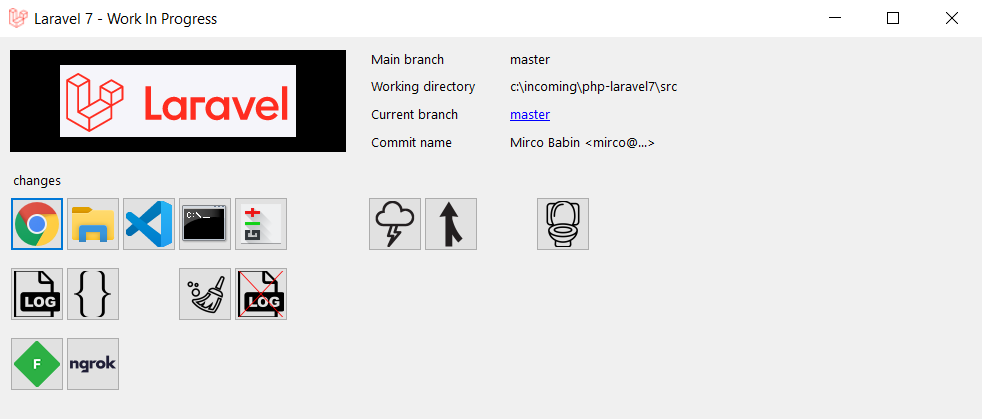
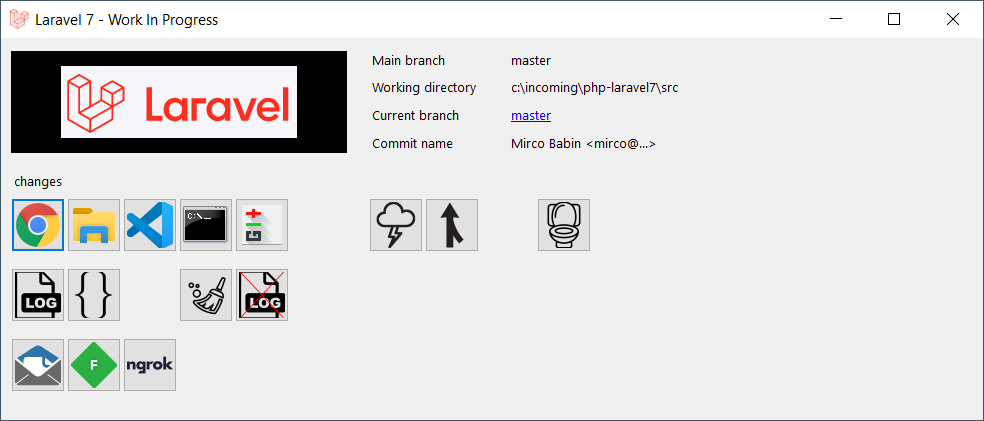
add: Smtp Server

diff --git a/src/GitNoob.Config/Loader/IniFileLoader.cs b/src/GitNoob.Config/Loader/IniFileLoader.cs
@@ -19,10 +19,12 @@ namespace GitNoob.Config.Loader
         private string _globalPhpName;
         private string _globalApacheName;
         private string _globalNgrokName;
+        private string _globalSmtpServerName;
         private Dictionary<string, WorkingGit> _globalGits;
         private Dictionary<string, Apache> _globalApaches;
         private Dictionary<string, Php> _globalPhps;
         private Dictionary<string, Ngrok> _globalNgroks;
+        private Dictionary<string, SmtpServer> _globalSmtpServers;
         private Dictionary<string, Webpage> _globalWebpages;
 
         private Dictionary<string, Project> _projects;
@@ -45,10 +47,12 @@ namespace GitNoob.Config.Loader
             _globalPhpName = String.Empty;
             _globalApacheName = String.Empty;
             _globalNgrokName = String.Empty;
+            _globalSmtpServerName = String.Empty;
             _globalGits = new Dictionary<string, WorkingGit>();
             _globalApaches = new Dictionary<string, Apache>();
             _globalPhps = new Dictionary<string, Php>();
             _globalNgroks = new Dictionary<string, Ngrok>();
+            _globalSmtpServers = new Dictionary<string, SmtpServer>();
             _globalWebpages = new Dictionary<string, Webpage>();
 
             _projects = new Dictionary<string, Project>();
@@ -128,6 +132,14 @@ namespace GitNoob.Config.Loader
                         _globalNgroks.Add(name, LoadNgrok(ini, sectionname, String.Empty));
                     }
                 },
+                {  "smtpserver-", (ini, sectionname, name) =>
+                    {
+                        if (_globalSmtpServers.ContainsKey(name))
+                            _globalSmtpServers.Remove(name);
+
+                        _globalSmtpServers.Add(name, LoadSmtpServer(ini, sectionname, String.Empty));
+                    }
+                },
             };
 
             {
@@ -166,6 +178,7 @@ namespace GitNoob.Config.Loader
                 _globalApacheName = ReadValue(ini, "gitnoob", "apache");
                 _globalPhpName = ReadValue(ini, "gitnoob", "php");
                 _globalNgrokName = ReadValue(ini, "gitnoob", "ngrok");
+                _globalSmtpServerName = ReadValue(ini, "gitnoob", "smtpserver");
 
                 foreach (string sectionname in ini.GetSectionNames())
                 {
@@ -323,6 +336,27 @@ namespace GitNoob.Config.Loader
             return ngrok;
         }
 
+        private SmtpServer LoadSmtpServer(IniFile ini, string Section, string smtpServerName)
+        {
+            SmtpServer smtpserver = new SmtpServer();
+            string value;
+
+            value = ReadValue(ini, Section, "smtpserver");
+            if (!String.IsNullOrWhiteSpace(value)) smtpServerName = value;
+            if (!String.IsNullOrWhiteSpace(smtpServerName))
+            {
+                if (_globalSmtpServers.ContainsKey(smtpServerName))
+                {
+                    smtpserver.CopyFrom(_globalSmtpServers[smtpServerName]);
+                }
+            }
+
+            value = ReadPath(ini, Section, "smtpServerExecutable");
+            if (!String.IsNullOrWhiteSpace(value)) smtpserver.Executable = value;
+
+            return smtpserver;
+        }
+
         private Webpage LoadWebpage(IniFile ini, string Section, string webpageName)
         {
             Webpage webpage = new Webpage();
@@ -386,6 +420,14 @@ namespace GitNoob.Config.Loader
                 ngrokName = name;
             }
 
+            string smtpServerName;
+            {
+                string name = "gitnoob-project-" + inifilename;
+                _globalSmtpServers.Add(name, LoadSmtpServer(ini, "gitnoob", _globalSmtpServerName));
+
+                smtpServerName = name;
+            }
+
             string webpageName;
             {
                 string name = "gitnoob-project-" + inifilename;
@@ -406,7 +448,7 @@ namespace GitNoob.Config.Loader
                             project.WorkingDirectories.Remove(name);
 
                         project.WorkingDirectories.Add(name, LoadWorkingDirectory(project, ini, sectionname, 
-                            gitName, webpageName, apacheName, phpName, ngrokName));
+                            gitName, webpageName, apacheName, phpName, ngrokName, smtpServerName));
                     }
                     catch { }
                 }
@@ -416,7 +458,7 @@ namespace GitNoob.Config.Loader
         }
 
         private WorkingDirectory LoadWorkingDirectory(Project project, IniFile ini, string Section, 
-            string gitName, string webpageName, string apacheName, string phpName, string ngrokName)
+            string gitName, string webpageName, string apacheName, string phpName, string ngrokName, string smtpServerName)
         {
             WorkingDirectory WorkingDirectory = new WorkingDirectory();
             string value;
@@ -439,6 +481,8 @@ namespace GitNoob.Config.Loader
             WorkingDirectory.Php = LoadPhp(ini, Section, phpName);
 
             WorkingDirectory.Ngrok = LoadNgrok(ini, Section, ngrokName);
+
+            WorkingDirectory.SmtpServer = LoadSmtpServer(ini, Section, smtpServerName);
 
 
             value = ReadValue(ini, Section, "port");

diff --git a/src/GitNoob.Gui.Program/Action/StartSmtpServer.cs b/src/GitNoob.Gui.Program/Action/StartSmtpServer.cs
@@ -1,0 +1,42 @@
+using System.Drawing;
+using System.IO;
+
+namespace GitNoob.Gui.Program.Action
+{
+    public class StartSmtpServer : Action, IAction
+    {
+        public StartSmtpServer(StepsExecutor.StepConfig Config) : base(Config) { }
+
+        private string GetExecutable()
+        {
+            if (string.IsNullOrWhiteSpace(stepConfig.Config.ProjectWorkingDirectory.SmtpServer.Executable))
+            {
+                return null;
+            }
+
+            return Path.GetFullPath(stepConfig.Config.ProjectWorkingDirectory.SmtpServer.Executable);
+        }
+
+        public bool isStartable()
+        {
+            var smtpserver = GetExecutable();
+            if (smtpserver == null) return false;
+
+            if (!File.Exists(smtpserver)) return false;
+
+            return true;
+        }
+
+        public Icon icon()
+        {
+            return Utils.ImageUtils.LoadIconForFile(GetExecutable());
+        }
+
+        public void execute()
+        {
+            if (!isStartable()) return;
+
+            System.Diagnostics.Process.Start(GetExecutable());
+        }
+    }
+}

diff --git a/src/GitNoob.Gui.Forms/WorkingDirectoryForm.cs b/src/GitNoob.Gui.Forms/WorkingDirectoryForm.cs
@@ -382,6 +382,12 @@ namespace GitNoob.Gui.Forms
             location.X = lblStatusValue.Location.X;
             location.Y += 70;
 
+            var smtpserver = new Program.Action.StartSmtpServer(StepConfig);
+            if (smtpserver.isStartable())
+            {
+                this.panelStatus.Controls.Add(new ActionButton("Smtp Server", smtpserver, ref location));
+            }
+
             var fiddler = new Program.Action.StartFiddler();
             if (browser.isStartable() && fiddler.isStartable())
             {

diff --git a/src/GitNoob.Config/WorkingDirectory.cs b/src/GitNoob.Config/WorkingDirectory.cs
@@ -16,6 +16,7 @@
         public Php Php { get; set; }
         public Apache Apache { get; set; }
         public Ngrok Ngrok { get; set; }
+        public SmtpServer SmtpServer { get; set; }
         public Editor Editor { get; set; }
 
         public WorkingDirectory()
@@ -26,6 +27,7 @@
             Php = new Php();
             Apache = new Apache();
             Ngrok = new Ngrok();
+            SmtpServer = new SmtpServer();
             Editor = new Editor();
             Webpage = new Webpage();
         }

diff --git a/src/GitNoob.Config/SmtpServer.cs b/src/GitNoob.Config/SmtpServer.cs
@@ -1,0 +1,17 @@
+namespace GitNoob.Config
+{
+    public class SmtpServer
+    {
+        public string Executable { get; set; }
+
+        public SmtpServer()
+        {
+            Executable = string.Empty;
+        }
+
+        public void CopyFrom(SmtpServer other)
+        {
+            Executable = other.Executable;
+        }
+    }
+}

diff --git a/docs/ProjectConfigurationFile.md b/docs/ProjectConfigurationFile.md
@@ -23,6 +23,9 @@ In the project configuration the section GitNoob can contain the settings:
 | ngrokPath | Path | (Optional) Path to Ngrok binaries. %ngrokPath% should contain ngrok.exe. e.g. "%binPath%\\ngrok". |
 | ngrokPort | Integer | (Optional) Port on localhost where the Ngrok dashboard is running. e.g. the default port "4040" |
 | | | |
+| smtpserver | Value | (Optional) project smtpserver settings name. E.g. "papercut" then there should also be a section \[smtpserver-papercut\] in the [root configuration file - GitNoob.ini](RootConfigurationFile.md "Root Configuration File"). |
+| smtpServerExecutable | Path | (Optional) Smtp server executable. |
+| | | |
 | origin | Value | (Optional) project url to be used for "git clone". e.g. "https://github.com/MircoBabin/GitNoob.git". |
 | mainbranch | Value | (Optional) main branch name. e.g. "master". |
 | commitname | Value | (Optional) what value should the committer name have. E.g. "Mirco Babin". |
@@ -64,6 +67,9 @@ This section defines a working directory.
 | ngrok | Value | (Optional) project ngrok settings name. E.g. "global" then there should also be a section \[ngrok-global\] in the [root configuration file - GitNoob.ini](RootConfigurationFile.md "Root Configuration File"). |
 | ngrokPath | Path | (Optional) Path to Ngrok binaries. %ngrokPath% should contain ngrok.exe. e.g. "%binPath%\\ngrok". |
 | ngrokPort | Integer | (Optional) Port on localhost where the Ngrok dashboard is running. e.g. the default port "4040" |
+| | | |
+| smtpserver | Value | (Optional) project smtpserver settings name. E.g. "papercut" then there should also be a section \[smtpserver-papercut\] in the [root configuration file - GitNoob.ini](RootConfigurationFile.md "Root Configuration File"). |
+| smtpServerExecutable | Path | (Optional) Smtp server executable. |
 | | | |
 | origin | Value | (Optional) url to be used for "git clone". e.g. "https://github.com/MircoBabin/GitNoob.git". |
 | mainbranch | Value | (Optional) main branch name. e.g. "master". |

diff --git a/docs/RootConfigurationFile.md b/docs/RootConfigurationFile.md
@@ -35,6 +35,7 @@ In the root configuration the section GitNoob can contain the settings:
 | apache | Value | (Optional) global apache settings name. E.g. "global" then there should also be a section \[apache-global\]. |
 | php | Value | (Optional) global php settings name. E.g. "5.6.40" then there should also be a section \[php-5.6.40\]. |
 | ngrok | Value | (Optional) global ngrok settings name. E.g. "global" then there should also be a section \[ngrok-global\]. |
+| smtpserver | Value | (Optional) global smtpserver settings name. E.g. "papercut" then there should also be a section \[smtpserver-papercut\]. |
 
 ```
 [GitNoob]
@@ -47,6 +48,7 @@ commitemail=mirco@...
 apache=global
 php=5.6.40
 ngrok=global
+smtpserver=papercut
 ```
 
 # section \[projecttypes\]
@@ -121,6 +123,18 @@ ngrokPath=%binPath%\ngrok
 ngrokPort=4040
 ```
 
+# sections starting with \[smtpserver-\]
+A section starting with "smtpserver-" defines Smtp server settings. E.g. "\[smtpserver-papercut\]" defines an smtpserver section named "papercut".
+
+| Name | Type | Description |
+| ---- | ---- | ----------- |
+| smtpServerExecutable | Path | Executable to start. |
+
+```
+[smtpserver-papercut]
+smtpServerExecutable=%binPath%\PaperCut\papercut.exe
+```
+
 # full example of GitNoob.ini
 
 ```
@@ -138,6 +152,7 @@ commitemail=mirco@...
 apache=global
 php=5.6.40
 ngrok=global
+smtpserver=papercut
 
 [projecttypes]
 assembly=MyProjectTypes.dll
@@ -162,4 +177,7 @@ phpIni=%binPath%\php-7.2.31\php.ini
 [ngrok-global]
 ngrokPath=%binPath%\ngrok
 ngrokPort=4040
+
+[smtpserver-papercut]
+smtpServerExecutable=c:\utils\PaperCut\papercut.exe
 ```

diff --git a/README.md b/README.md
@@ -26,6 +26,7 @@ GitNoob solves the following problems:
 - Starting Git Gui for committing changes.
 - Optional: Starting the IDE.
 - Optional: Starting the browser. And automatically start Apache if needed.
+- Optional: Starting a local smtp server like [PaperCut-SMTP](https://github.com/ChangemakerStudios/Papercut-SMTP).
 - Optional: Starting [Fiddler](https://www.telerik.com/fiddler/fiddler-classic).
 - Optional: Starting [Ngrok](https://ngrok.com/). And automatically start Apache if needed.
 
